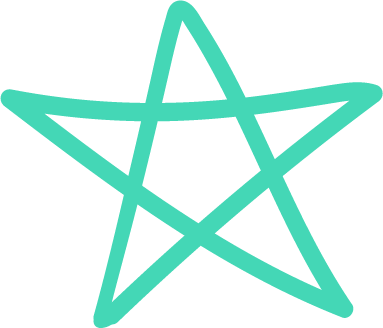
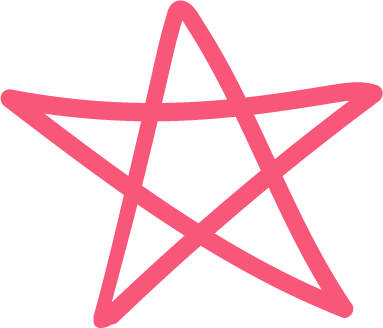
Color Update

Changed region(s): [[0.0, 0.0, 1.0, 1.0]]

diff --git a/Index.html b/Index.html
@@ -58,8 +58,6 @@
     <div class="container">
         <div class="row">
             <div class="col-lg-12 text-center">
-                <hr/>
-                <img src="/Images/tacocat.png" alt="Taco Cat" class="responsive" />
                 <h1 class="mt-5">TACOCAT</h1>
                 <hr />
                 <p class="lead">The Palindrome Algorithim</p>
@@ -73,19 +71,19 @@
         <hr />
         <div class="row">
             <div class="col">
-                <img src="/Images/jsgreen.png" alt="JavaScript" />
+                <img src="/Images/jspink.png" alt="JavaScript" />
             </div>
             <div class="col">
-                <img src="/Images/jquerygreen.png" alt="jQUERY" />
+                <img src="/Images/jquery.png" alt="jQUERY" />
             </div>
             <div class="col">
-                <img src="/Images/html5green.png" alt="HTML5" />
+                <img src="/Images/html5icon.png" alt="HTML5" />
             </div>
             <div class="col">
-                <img src="/Images/css3green.png" alt="CSS3" />
+                <img src="/Images/css3pink.png" alt="CSS3" />
             </div>
             <div class="col">
-                <img src="/Images/bootstrapgreen.png" alt="BOOTSTRAP" />
+                <img src="/Images/bootstrappink.png" alt="BOOTSTRAP" />
             </div>
         </div>
     </div>

diff --git a/Code.html b/Code.html
@@ -58,8 +58,6 @@
         <div class="row">
             <div class="col-lg-12 text-center">
 
-                <hr />
-                <img src="/Images/tacocat.png" alt="Taco Cat" class="responsive" />
                 <h1 class="mt-5">TACOCAT</h1>
                 <p class="lead">My code will be here. You need to use a Syntax Highlighter - Prism.js is default</p>
                 <ul class="list-unstyled">

diff --git a/Content/Custom.css b/Content/Custom.css
@@ -42,7 +42,7 @@ body {
 }
 
 .banner-color {
-    background-color: #44D7B6;
+    background-color: #F95775;
 }
 
 img {
@@ -188,7 +188,7 @@ blockquote {
 
 .btn-default {
     color: #FFF;
-    background: #44D7B6;
+    background: #F95775;
     display: inline-block;
     vertical-align: middle;
     position: relative;

diff --git a/Solve.html b/Solve.html
@@ -59,8 +59,7 @@
 
         <div class="row">
             <div class="col text-center">
-                <hr />
-                <img src="/Images/tacocat.png" alt="Taco Cat" class="responsive" />
+
                 <h1 class="mt-5">TACOCAT</h1>
             </div>
         </div>
